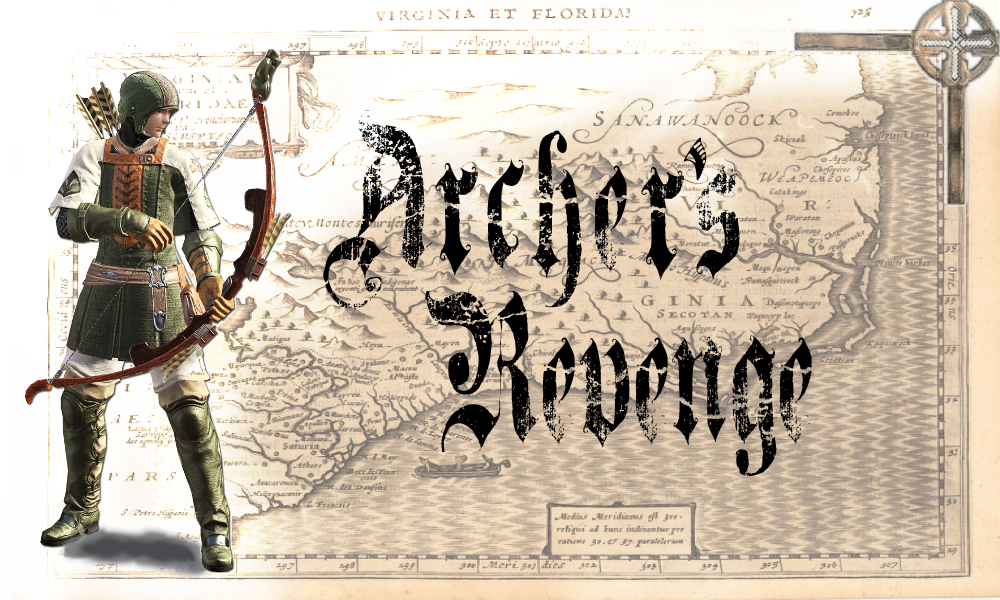
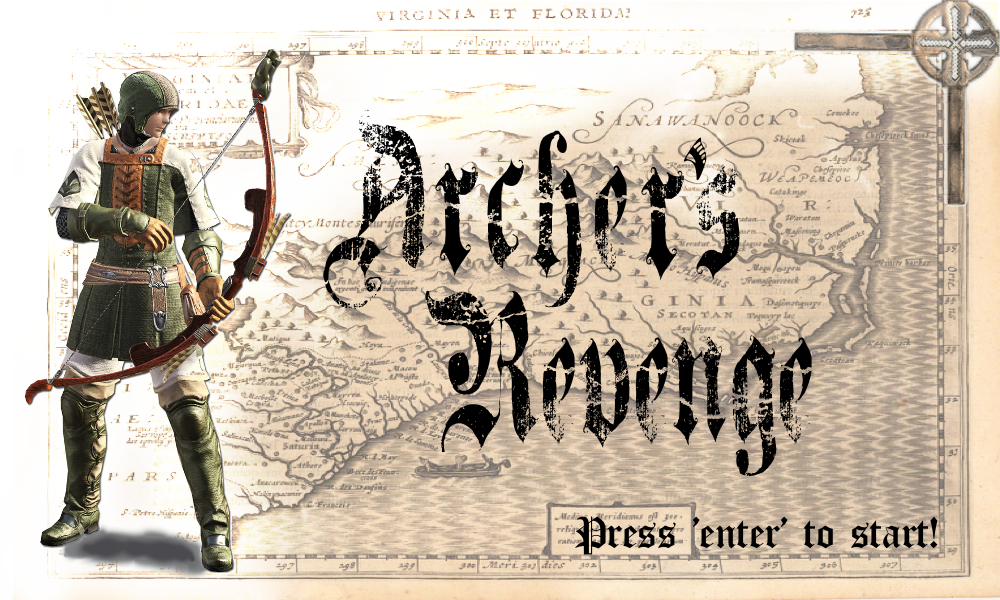
hopefully final screens

Changed region(s): [[0.558, 0.87, 0.961, 0.93]]

diff --git a/menu.js b/menu.js
@@ -2,43 +2,15 @@ Welcome = function () {
 	canvas = document.getElementById("canvas");
     ctx = canvas.getContext("2d");
     var menu = new Image();
-    var play = new Image();
-    var help = new Image();
-    var highlight = false;
-	menu.src = "menu.png";
-	play.src = "playbutton.png";
-	help.src = "helpbutton.png";
+	menu.src = "Menu.png";
 	var drawMainMenu = function(){
 
 		ctx.drawImage(menu, 0, 0);  // draw image at (0, 0)
-		//false is play true is help
-		if (highlight === false){
-			ctx.fillStyle = "#FFFFFF";
-			ctx.fillRect(640, 490, 130, 60);
-		}
-		else{
-			ctx.fillStyle = "#FFFFFF";
-			ctx.fillRect(790,490,130,60);
-		}
-		ctx.drawImage(play, 650,495,110,50);
-		ctx.drawImage(help, 800,495,110,50);
 	}
 
 	var onKeyPress = function(event){
-    	if (event.keyCode === 39){
-    		highlight = true;
-    	}
-    	else if(event.keyCode === 37){
-    		highlight = false;
-    	}
-    	else if(highlight === false && event.keyCode === 13){
-    		window.clearInterval(drawMain);
-    		canvas.removeEventListener('keydown',onKeyPress,false);
-    		App();
-    		return;
-    	}
-    	else if(highlight === true && event.keyCode === 13){
-    		window.clearInterval(drawMain);
+    	if (event.keyCode === 13){
+			window.clearInterval(drawMain);
     		canvas.removeEventListener('keydown', onKeyPress, false);
     		Help();
     		return;
@@ -54,46 +26,16 @@ Welcome = function () {
 
 Help = function (){
 	var help = new Image();
-	var back = new Image();
-	var more = new Image();
-	var helphighlight = false;
-	help.src = "helpMenu1.png";
-	back.src = "backbutton.png";
-	more.src = "morebutton.png";
+	help.src = "help.png";
 	var drawHelpMenu = function(){
 		ctx.drawImage(help, 0, 0);  // draw image at (0, 0)
-		if (helphighlight === false){
-			ctx.fillStyle = "#FFFFFF";
-			ctx.fillRect(640, 490, 130, 60);
-		}
-		else{
-			ctx.fillStyle = "#FFFFFF";
-			ctx.fillRect(790,490,130,60);
-		}
-		ctx.drawImage(more, 650,495,110,50);
-		ctx.drawImage(back, 800,495,110,50);
-
 	}
 
 	var onKeyPressHelp = function(event){
-		if (event.keyCode === 39){
-    		helphighlight = true;
+		if (event.keyCode === 13){
+    		alert("show tutorial");
     	}
-    	else if(event.keyCode === 37){
-    		helphighlight = false;
-    	}
-		else if (event.keyCode ===13 && helphighlight === false){
-			alert("show tutorial");
-		}
-		else if(event.keyCode ==13 && helphighlight == true){
-			window.clearInterval(drawHelp);
-			canvas.removeEventListener('keydown', onKeyPressHelp,false);
-			Welcome();
-			return;
-		}
-
-}
-
+	}
 	canvas.addEventListener('keydown', onKeyPressHelp, false);
 	var drawHelp = setInterval(drawHelpMenu, 1000/20);
 }
